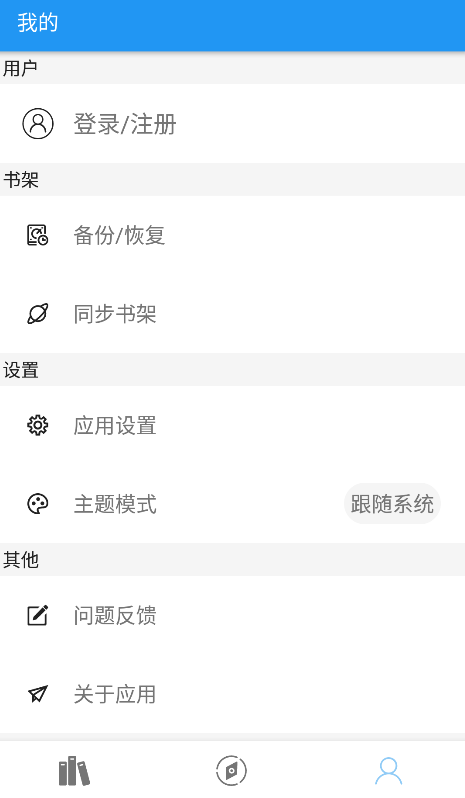
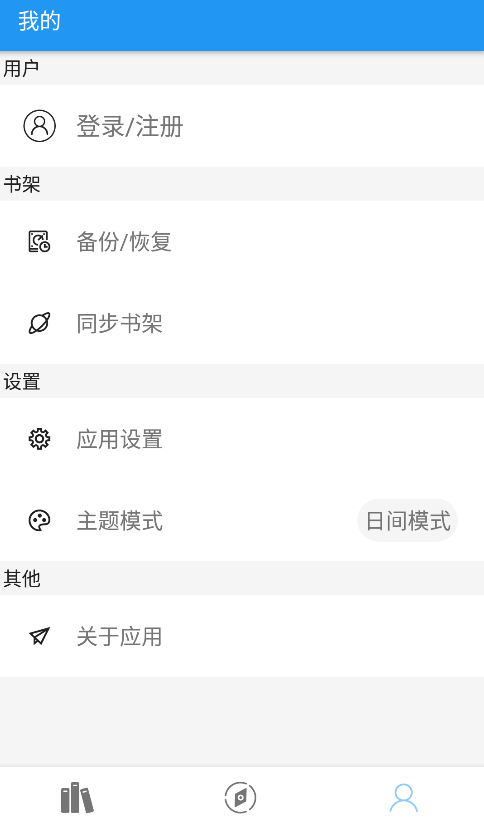
更新README

diff --git a/app/src/main/java/xyz/fycz/myreader/ui/adapter/holder/SearchBookHolder.java b/app/src/main/java/xyz/fycz/myreader/ui/adapter/holder/SearchBookHolder.java
@@ -78,11 +78,8 @@ public class SearchBookHolder extends ViewHolderImpl<SearchBookBean> {
             book.setImgUrl("");
         }
         tvBookName.setText(book.getName());
-        tvNewestChapter.setText(getContext().getString(R.string.newest_chapter, book.getNewestChapterTitle()));
         tvAuthor.setText(book.getAuthor());
         tvSource.setText(getContext().getString(R.string.source_title_num, BookSource.fromString(book.getSource()).text, bookCount));
-        tvDesc.setText("");
-        tvType.setText("");
         ReadCrawler rc = ReadCrawlerUtil.getReadCrawler(book.getSource());
         if (rc instanceof BookInfoCrawler){
             if (tvBookName.getTag() == null || !(Boolean) tvBookName.getTag()) {
@@ -110,6 +107,15 @@ public class SearchBookHolder extends ViewHolderImpl<SearchBookBean> {
     }
 
     private void initOtherInfo(Book book){
+        //简介
+        if (book.getDesc() == null) {
+            tvDesc.setText("");
+        }else {
+            tvDesc.setText("简介:" + book.getDesc());
+        }
+        tvType.setText(book.getType());
+        tvNewestChapter.setText(getContext().getString(R.string.newest_chapter, book.getNewestChapterTitle()));
+        tvAuthor.setText(book.getAuthor());
         //图片
         if (!MyApplication.isDestroy((Activity) getContext())) {
             Glide.with(getContext())
@@ -121,14 +127,6 @@ public class SearchBookHolder extends ViewHolderImpl<SearchBookBean> {
                     .apply(RequestOptions.bitmapTransform(new RoundedCorners(8)))
                     .into(ivBookImg);
         }
-        //简介
-        if (book.getDesc() == null) {
-            tvDesc.setText("");
-        }else {
-            tvDesc.setText("简介:" + book.getDesc());
-        }
-        tvType.setText(book.getType());
-        tvNewestChapter.setText("最新章节:" + book.getNewestChapterTitle());
-        tvAuthor.setText(book.getAuthor());
+
     }
 }

diff --git a/app/src/main/java/xyz/fycz/myreader/ui/fragment/MineFragment.java b/app/src/main/java/xyz/fycz/myreader/ui/fragment/MineFragment.java
@@ -56,6 +56,8 @@ public class MineFragment extends BaseFragment {
     RelativeLayout mRlThemeMode;
     @BindView(R.id.tv_theme_mode_select)
     TextView tvThemeModeSelect;
+    @BindView(R.id.mine_rl_feedback)
+    RelativeLayout mRlFeedback;
     @BindView(R.id.mine_rl_about)
     RelativeLayout mRlAbout;
 
@@ -250,6 +252,20 @@ public class MineFragment extends BaseFragment {
             startActivity(aboutIntent);
         });
 
+        mRlFeedback.setOnClickListener(v -> {
+            DialogCreator.createCommonDialog(getContext(), "问题反馈", "请加入QQ群(1085028304)反馈问题!", true,
+                    "加入QQ群", "取消", (dialog, which) -> {
+                        if (!MyApplication.joinQQGroup(getContext(),"8PIOnHFuH6A38hgxvD_Rp2Bu-Ke1ToBn")){
+                            ClipboardManager mClipboardManager = (ClipboardManager) getActivity().getSystemService(Context.CLIPBOARD_SERVICE);
+                            //数据
+                            ClipData mClipData = ClipData.newPlainText("Label", "1085028304");
+                            //把数据设置到剪切板上
+                            assert mClipboardManager != null;
+                            mClipboardManager.setPrimaryClip(mClipData);
+                            ToastUtils.showError("未安装手Q或安装的版本不支持！\n已复制QQ群号，您可自行前往QQ添加！");
+                        }
+                    }, null);
+        });
     }
 
     @Override

diff --git a/app/src/main/java/xyz/fycz/myreader/ui/activity/AboutActivity.java b/app/src/main/java/xyz/fycz/myreader/ui/activity/AboutActivity.java
@@ -32,7 +32,8 @@ public class AboutActivity extends BaseActivity2 {
     CardView vmUpdate;
     @BindView(R.id.vw_update_log)
     CardView vmUpdateLog;
-
+    @BindView(R.id.vw_qq)
+    CardView vmQQ;
     @BindView(R.id.vw_git)
     CardView vmGit;
     @BindView(R.id.vw_disclaimer)
@@ -73,7 +74,16 @@ public class AboutActivity extends BaseActivity2 {
                 SharedPreUtils.getInstance().getString("downloadLink")));
         vmUpdate.setOnClickListener(v -> MyApplication.checkVersionByServer(this, true, null));
         vmUpdateLog.setOnClickListener(v -> DialogCreator.createAssetTipDialog(this, "更新日志", "updatelog.fy"));
-
+        vmQQ.setOnClickListener(v -> {
+            if (!MyApplication.joinQQGroup(this,"8PIOnHFuH6A38hgxvD_Rp2Bu-Ke1ToBn")){
+                //数据
+                ClipData mClipData = ClipData.newPlainText("Label", "1085028304");
+                //把数据设置到剪切板上
+                assert mClipboardManager != null;
+                mClipboardManager.setPrimaryClip(mClipData);
+                ToastUtils.showError("未安装手Q或安装的版本不支持！\n已复制QQ群号，您可自行前往QQ添加！");
+            }
+        });
         vmGit.setOnClickListener(v -> openIntent(Intent.ACTION_VIEW, getString(R.string.this_github_url)));
         vmDisclaimer.setOnClickListener(v -> DialogCreator.createAssetTipDialog(this, "免责声明", "disclaimer.fy"));
 

diff --git a/app/src/main/java/xyz/fycz/myreader/application/MyApplication.java b/app/src/main/java/xyz/fycz/myreader/application/MyApplication.java
@@ -432,4 +432,25 @@ public class MyApplication extends Application {
         return mActivity == null || mActivity.isFinishing() || mActivity.isDestroyed();
     }
 
+
+    /****************
+     *
+     * 发起添加群流程。群号：风月读书交流群(1085028304) 的 key 为： 8PIOnHFuH6A38hgxvD_Rp2Bu-Ke1ToBn
+     * 调用 joinQQGroup(8PIOnHFuH6A38hgxvD_Rp2Bu-Ke1ToBn) 即可发起手Q客户端申请加群 风月读书交流群(1085028304)
+     *
+     * @param key 由官网生成的key
+     * @return 返回true表示呼起手Q成功，返回false表示呼起失败
+     ******************/
+    public static boolean joinQQGroup(Context context, String key) {
+        Intent intent = new Intent();
+        intent.setData(Uri.parse("mqqopensdkapi://bizAgent/qm/qr?url=http%3A%2F%2Fqm.qq.com%2Fcgi-bin%2Fqm%2Fqr%3Ffrom%3Dapp%26p%3Dandroid%26jump_from%3Dwebapi%26k%3D" + key));
+        // 此Flag可根据具体产品需要自定义，如设置，则在加群界面按返回，返回手Q主界面，不设置，按返回会返回到呼起产品界面    //intent.addFlags(Intent.FLAG_ACTIVITY_NEW_TASK)
+        try {
+            context.startActivity(intent);
+            return true;
+        } catch (Exception e) {
+            // 未安装手Q或安装的版本不支持
+            return false;
+        }
+    }
 }

diff --git a/app/src/main/java/xyz/fycz/myreader/common/APPCONST.java b/app/src/main/java/xyz/fycz/myreader/common/APPCONST.java
@@ -10,10 +10,10 @@ import java.io.File;
 
 public class APPCONST {
 
-    public static String publicKey = "fyds1.0";//服务端公钥
+    public static String publicKey = "";//服务端公钥
     public static String privateKey;//app私钥
     public final static String s = "11940364935628058505";
-    public static final String KEY = "readerByFengyue";
+    public static final String KEY = "";
 
     public static final String ALARM_SCHEDULE_MSG = "alarm_schedule_msg";
 
